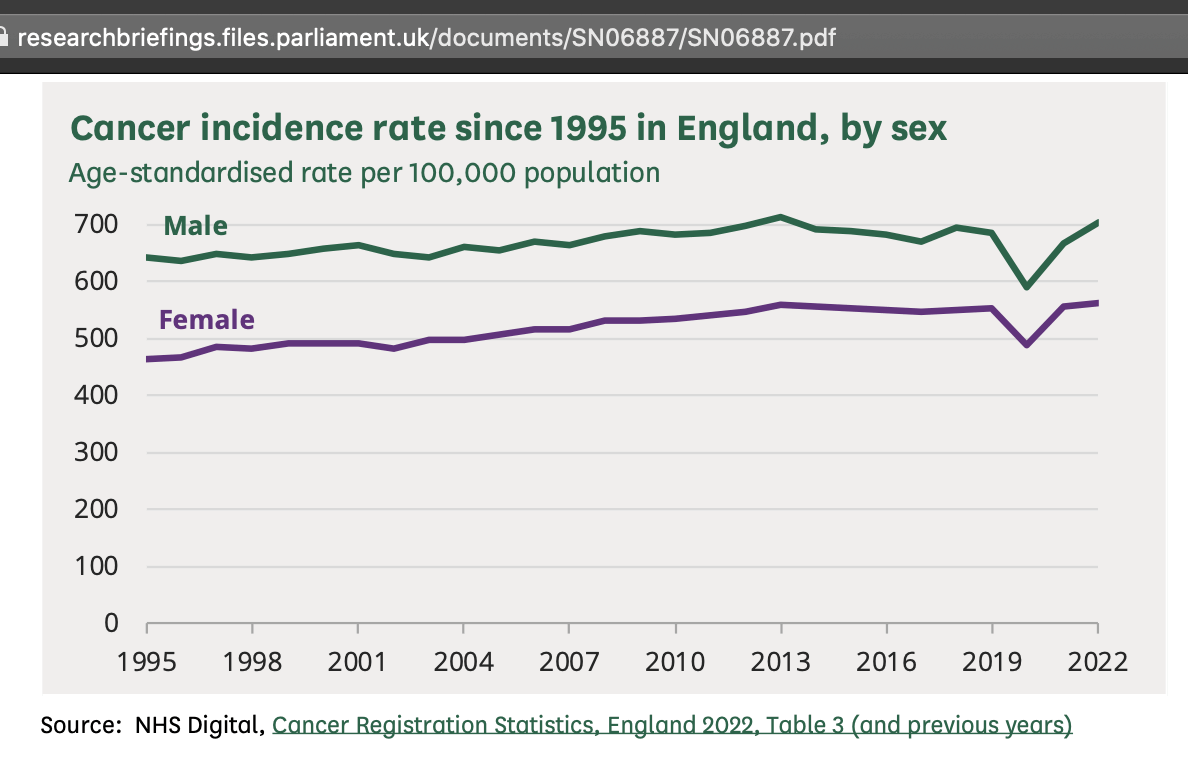
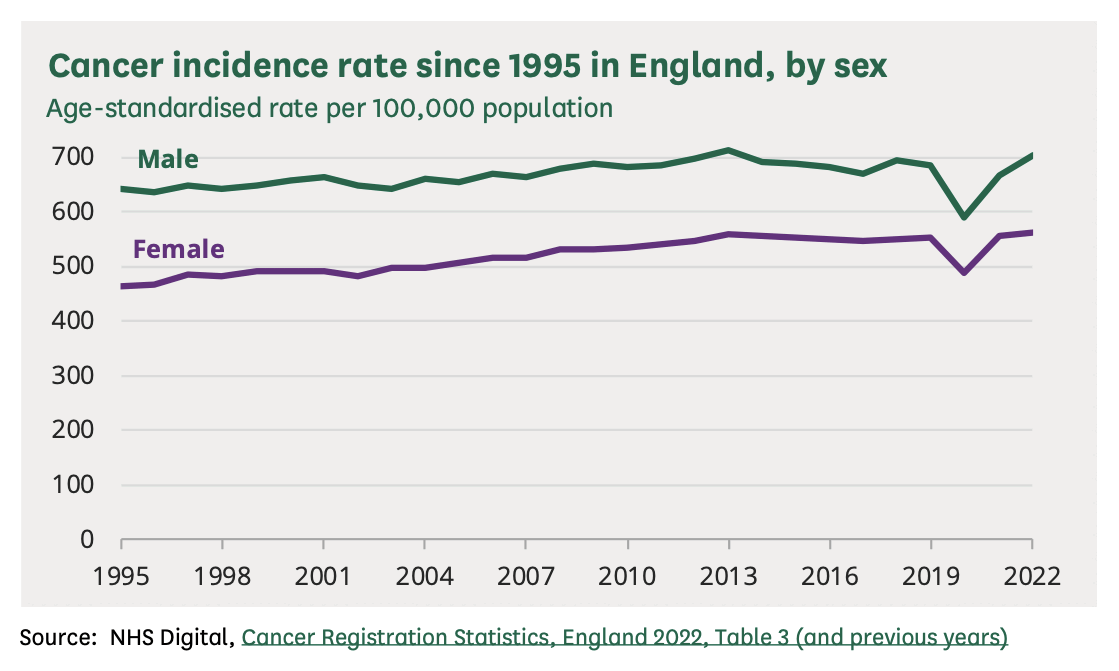
a

Changed region(s): [[0.0304, 0.149, 0.9723, 0.8942], [0.0, 0.0, 1.0, 0.1192], [0.0, 0.924, 0.9115, 0.9836]]

diff --git a/ethical3.html b/ethical3.html
@@ -2814,9 +2814,9 @@ methodology was different from the image above.</p>
 <pre># get weekly deaths in ages 0-4 with the underlying cause A-R or 999--999
 t=fread(&quot;https://sars2.net/f/wondervaccinial0to4.csv&quot;)
 
-# moving average that extends up to 3 weeks backwards and 2 weeks forwards
+# moving average that extends up to 3 weeks backwards and up to 2 weeks forwards
 # this extends zero weeks backwards on the first week
-ma=\(x,b=1,f=b){x[]=rowMeans(embed(c(rep(NA,b),x,rep(NA,f)),f+b+1),na.rm=T);x}
+ma=\(x,b=1,f=b)rowMeans(embed(c(rep(NA,b),x,rep(NA,f)),f+b+1),na.rm=T)
 t[,dead:=ma(dead,3,2)]
 
 # calculate the baseline using weeks of the MMWR years 2018 and 2019
@@ -2824,32 +2824,49 @@ t[,dead:=ma(dead,3,2)]
 base=t[year&lt;2020&amp;!(year==2019&amp;week&gt;45)]
 
 # get average deaths for each week number during the baseline period
-# I treated week 53 as average of weeks 52 and 1, but I don&#39;t know how ES treated week 53
+# I treated week 53 as an average of weeks 52 and 1, but I don&#39;t know how ES treated week 53
 weekly=base[,tapply(dead,week,mean)]
 weekly[53]=mean(weekly[c(1,52)])
 
 # annual change in number of deaths (about -12.3)
-# this is similar to the SLOPE function in Excel which I think was used by ES
-slope=coef(lm(dead~year,base[year&lt;2020]))[&quot;year&quot;]
+# this is similar to the SLOPE function in Excel which was probably used by ES
+slope=coef(lm(dead~year,base[year&lt;2020]))[2]
 
 # annual growth rate relative to average deaths in 2018-2019 (about -0.0295 or -3%)
 growthrate=slope/base[year&lt;2020,mean(dead)]
 
-# get exponential baseline adjusted for seasonal variation
+# get final baseline
 t[,baseline:=weekly[week]*(1+growthrate)^(year-2018.5)]</pre>
 <p>If you do a linear regression of weekly deaths in 2018-2019 against a
-year variable, where there's 52 weeks where the year variable is 2018
-and 52 weeks where the year variable is 2019, it's equivalent to doing a
-linear regression of average weekly deaths in 2018 and average weekly
-deaths in 2019, which is equivalent to simply subtracting the average
+year variable, where there's 52 weeks where the value of the year
+variable is 2018 and 52 weeks where the value of the year variable is
+2019, it's equivalent to doing a linear regression of yearly averages of
+weekly deaths, which is equivalent to simply subtracting the average
 deaths in 2018 from the average deaths in 2019:</p>
 <pre>t=fread(&quot;https://sars2.net/f/wondervaccinial0to4.csv&quot;)
+
+# linear regression of weekly deaths against year variable
 coef(lm(dead~year,t[year&lt;2020]))[2]
 # -12.42308
+
+# linear regression of yearly average deaths against year variable
 t[,.(dead=mean(dead)),year][year&lt;2020,coef(lm(dead~year))[2]]
-# -12.42308 (same result)
+# -12.42308
+
+# average deaths in 2019 minus average deaths in 2018
 t[,.(dead=mean(dead)),year][,dead[year==2019]-dead[year==2018]]
-# -12.42308 (same result)</pre>
+# -12.42308</pre>
+<p>At first I wasn't sure how ES converted the slope of the linear
+regression to an annual growth percent, but then I noticed that in
+another image where he described his methodology, he wrote that he first
+determined <span class="quote">"the first derivative dx/dy slope of 2014
+- 2019 records for each ICD-10 code"</span>, and then he factored <span
+class="quote">"this slope as a percentage of the average 2014 - 2019
+week"</span>:
+[<a href=https://theethicalskeptic.com/wp-content/uploads/2025/09/ICD-10-Code-Excess-Death-Derivation-small.jpg>https://theethicalskeptic.com/wp-content/uploads/2025/09/ICD-10-Code-Excess-Death-Derivation-small.jpg</a>]</p>
+<div>
+<img src=i/ethical-baseline-method-2.png width=600>
+</div>
 <p>However I was still not successful in reproducing Ethical Skeptic's
 baseline, because I only got about 26% excess deaths on weeks 14-20 of
 2025, and not 77%:</p>
@@ -2936,36 +2953,17 @@ d[,diff:=c(NA,diff(multiplier))]
 round(d,4)
 # year multiplier    diff
 # 2018     1.0153      NA
-# 2019     0.9849 -0.0305 # decrese between 2019 and 2020 is smaller
+# 2019     0.9849 -0.0305 # decrease between 2019 and 2020 is smaller
 # 2020     0.9553 -0.0295 # than decrease between 2018 and 2019
 # 2021     0.9267 -0.0287
 # 2022     0.8989 -0.0278
 # 2023     0.8719 -0.0270
 # 2024     0.8458 -0.0262
 # 2025     0.8204 -0.0254</pre>
-<p>I had earlier suspected ES might use an exponential baseline in some
-of his plots, but I hadn't understood properly how he calculates the
-baseline, because he didn't explain it very clearly in two other images
-where he described his methodology:
-[<a href=https://theethicalskeptic.com/wp-content/uploads/2025/09/ICD-10-Code-Excess-Death-Derivation-small.jpg>https://theethicalskeptic.com/wp-content/uploads/2025/09/ICD-10-Code-Excess-Death-Derivation-small.jpg</a>,
-<a href=https://theethicalskeptic.com/wp-content/uploads/2024/02/Assembly-of-a-scalloped-mortality-baseline.png>https://theethicalskeptic.com/wp-content/uploads/2024/02/Assembly-of-a-scalloped-mortality-baseline.png</a>]</p>
-<div>
-<img src=i/ethical-baseline-method-2.png width=1000>
-</div>
-<div>
-<img src=i/ethical-baseline-method-3.png width=550>
-</div>
-<p>In the first image above, ES wrote that he first determined <span
-class="quote">"the first derivative dx/dy slope of 2014 - 2019 records
-for each ICD-10 code"</span>, and then factored <span
-class="quote">"this slope as a percentage of the average 2014 - 2019
-week"</span>. So in my code above I also converted the slope of the
-linear regression to an annual growth percent by dividing the slope with
-the average weekly deaths in the baseline period.</p>
-<p>But anyway, it doesn't make sense to first calculate the slope of a
+<p>And anyway, it doesn't make sense to first calculate the slope of a
 linear trend in 2018-2019 but to then project an exponential function
 into the future based on the linear slope. If you do a linear regression
-against an exponential function, there's many different kinds of
+against an exponential function, there are many different kinds of
 exponential functions that will produce the same linear slope. You can't
 even tell from the linear slope if the exponential function has a convex
 or concave curve.</p>

diff --git a/ethical4.html b/ethical4.html
@@ -82,11 +82,11 @@ end of 2019, but in the dataset he cited as his source, the incidence in
 <div>
 <img src=i/ethical-englandincidence-14.png width=700>
 </div>
-<p>Here the age-standardized cancer incidence also remained around the
-same level in 2018 and 2019:
+<p>In this plot the age-standardized cancer incidence also remained
+around the same level in 2018 and 2019:
 [<a href=https://researchbriefings.files.parliament.uk/documents/SN06887/SN06887.pdf>https://researchbriefings.files.parliament.uk/documents/SN06887/SN06887.pdf</a>]</p>
 <div>
-<img src=i/ethical-englandincidence-2.png width=550>
+<img src=i/ethical-englandincidence-2.png width=500>
 </div>
 <p>I used WebPlotDigitizer to digitize the data in Ethical Skeptic's
 plot. The points in his plot have irregular horizontal spacing, so I had
@@ -96,8 +96,9 @@ to click on each point manually to extract the data correctly:
 <img src=i/ethical-englandincidence-11.png width=700>
 </div>
 <p>ES seems to have calculated the number of people aged 65 and above
-through a circuitious method of multiplying yearly population estimates
-of England with the yearly proportion of people aged 65 and above:</p>
+through a circuitious method, where he multiplied the yearly population
+estimates of England with the yearly proportion of people aged 65 and
+above:</p>
 <div>
 <img src=i/ethical-englandincidence-15.png width=600>
 </div>
